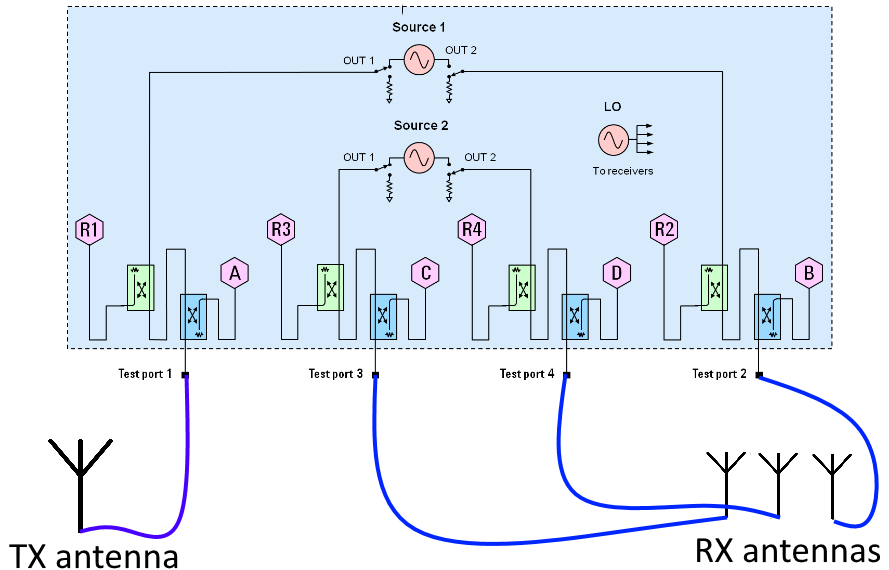
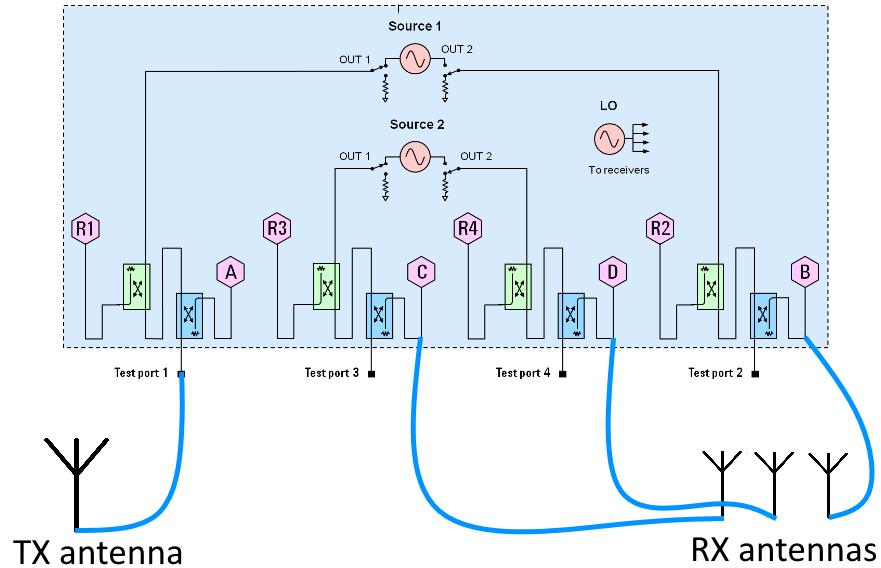
more stuff and updated connection diagram

diff --git a/report/chapter/measurement_campaign.tex b/report/chapter/measurement_campaign.tex
@@ -52,13 +52,11 @@ The HF lab was the room used for the measurements, it has  clutter and surfaces 
 %
 %With the pilot test done the full measurement can begin. This will use the same setup as for the pilot test, but with three reviver antennas measuring in parallel and different settings on the VNA. Given the results of the pilot test the amount of samples the sweep will obtain in frequency $N_f$ can be terminated. With this the amount of samples in space can be found to get a total of $4.04 \cdot 10^6$ samples. when the measurement starts the antenna array will be moved slowly in space. During the measurement the operate of the PNA will indicate how fast the person holding the antenna array should walk.
 
+
+
 \section{Equipment}
 Keysight PNA N5527A 4-port VNA with parallel measurements and supports a frequencies from 10MHz to 67 GHz. With a 4 port VNA a antenna setup in a 1 TX and 3 RX configuration will be used. Calibration can be done by connecting the cables together and do a simple normalization. The sweep data will be saved to a USB.
-N5527A has a $-119dB$ noise floor without averaging with a 10Hz $IF_{BW}$ at 1-10GHz. The dynamic range of the VNA becomes:
-\begin{equation}
-DR = P_{RX}+119dBm 
-\label{NFvna}
-\end{equation}
+
 
 Cables used have a loss of $0.5dB  \ per \ m$. 3 10m cables and 1 4m cable for the RX and TX antennas respectively. This gives a total cable loss $L_c$ of 7dB.
 
@@ -130,25 +128,47 @@ Sweep time & $T_{sweep}$ &74.1msec \\ \hline
 \end{table}
 These where the final values used in the VNA to do the measurements.
 \section{Dynamic range}
-\subsection{Tx power}
-\subsection{Pathloss}
-Given \autoref{eq:path_loss} and the VNA specification given in \autoref{equip} we can find the total received power seen in the measurements and calculate the Noisefloor requirement $Noisefloor_{Req}$ needed given the margin in \autoref{SNR_margin}:
+N5527A has a $-119dB$ noise floor without averaging with a 10Hz $IF_{BW}$ at 1-10GHz\autoref{equip}. The dynamic range of the VNA becomes:
 \begin{equation}
-L = 20log (4000MHz) + 28 \cdot log(5)-28 = 63.61dB \approx 64dB
+DR = P_{RX}+119dBm 
+\label{NFvna}
 \end{equation}
-\subsection{IF-bandwidth(noise floor)}
-Given the margin the noisefloor needs to be at:
+
+\subsection{TX power}
+The transmit power $P{TX}$ is the maximum power the VNA can transmit without getting overloaded. This should be around 15dBm\autoref{equip} depending on load from the different antennas.
+\subsection{Pathloss}
+Given \autoref{eq:path_loss} and the area of the room. The planned walking route in the room is around 6 meters from the antenna. This gives a pathloss value of:
 \begin{equation}
-Noisefloor_{Req} = 17 -64dB -64dB = -111dBm 
+L = 20log (5000) + 28 \cdot log(6)-28 = 67.76dB \approx 68dB
+\label{eq:path_loss}
+\end{equation}
+
+The $P_{RX}$ becomes:
+\begin{equation}
+P_{RX} = 15dBm + 12dBi - 68dB = -41dBm
+\end{equation}
+This gives a maximum dynamic range of:
+\begin{equation}
+DR = -41dBm+119dBm = 78dB
+\end{equation}
+
+
+\subsection{IF-bandwidth(noise floor)}
+Given the SNR margin $SNR_{M}$ and the $P_{RX}$ the noisefloor needs to be at:
+\begin{equation}
+Noisefloor_{Req} = -41dBm-64dB = -105dBm 
 \end{equation}
 The noise floor of the \gls{VNA} scales linearly with a increased $IF_{BW}$\citep{PNA_scale}. This would mean that a $IF_{BW}$ on the \gls{VNA} can be increased by:
 \begin{equation}
 \begin{split}
-&= IF_{BW} = -119dB+111dB = 8dB \\
-          \quad &= 10Hz \rightarrow 8dB \rightarrow 50Hz
+&= IF_{BW} = -119dB+105dB = 14dB \\
+          \quad &= 10Hz \rightarrow 14dB \rightarrow 250Hz
 \end{split}
 \end{equation}
+This means the $IF_{BW}$ can be at 250Hz, this will give us faster sweeptime at the cost of dynamic range.
 \section{FCF}
+This section needs some values from similar environments 50-150ns delay.
+\section{Time estimation}
 Since the \gls{VNA} can do segmented sweeps the sweep time is mostly dependant on the number of points and $IF_BW$.
 The Keysight PNA N5527A gives the following sweep times for a 201 point with different $IF_BW$ \citep{Key_PNA}.
 
@@ -168,7 +188,7 @@ $IF_BW${[}Hz{]} & Sweep time {[}ms{]} \\
 \end{table}
 
 There is also some overhead for saving the data. Since point value will be used when the $B_c$ is found.
-\section{Time estimation}
+
 Let's use example where we can use a 1kHz $IF_BW$ a
 \begin{equation}
 T_{sweep total} = 223ms
